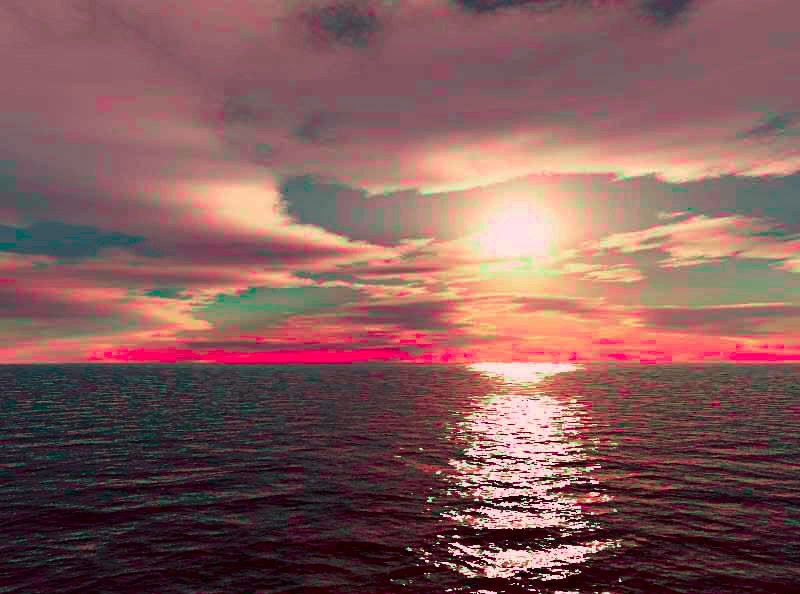
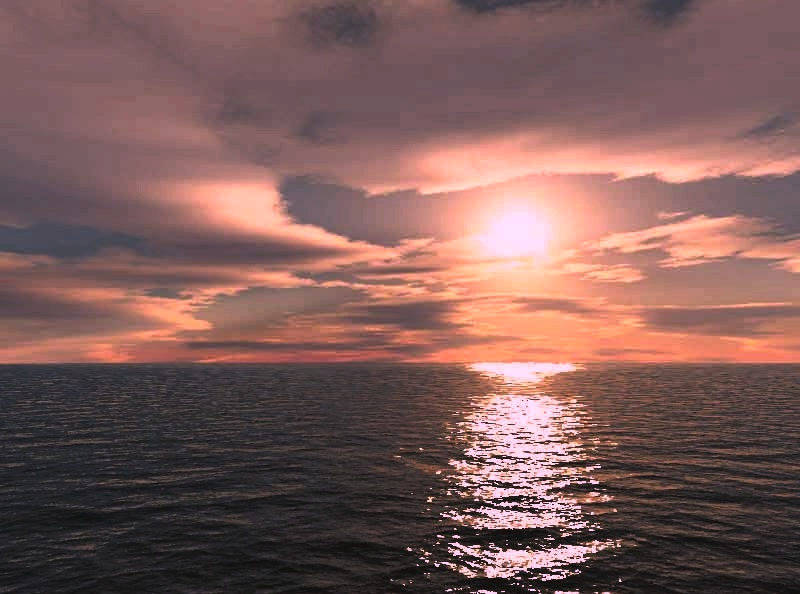
algorithm fixed

diff --git a/main.cpp b/main.cpp
@@ -7,6 +7,7 @@
 using namespace cv;
 
 #define WND_NAME_RES "Result Picture"
+#define WND_NAME_SOURCE "Source Picture"
 
 Mat RGB_to_LMS = (Mat_<float>(3,3) <<	0.3811, 0.5783, 0.0402,
 										0.1967, 0.7244, 0.0782,
@@ -14,12 +15,14 @@ Mat RGB_to_LMS = (Mat_<float>(3,3) <<	0.3811, 0.5783, 0.0402,
 Mat LMS_to_RGB = (Mat_<float>(3,3) <<	4.4679, -3.5873, 0.1193,
 										-1.2186, 2.3809, -0.1624,
 										0.0497, -0.2439, 1.2045);
+
 Mat LMS_to_lab_1 = (Mat_<float>(3,3) << 1/sqrt(3), 0, 0,
 										0, 1/sqrt(6), 0,
 										0, 0, 1/sqrt(2));
 Mat LMS_to_lab_2 = (Mat_<float>(3,3) << 1, 1, 1,
 											1, 1, -2,
 											1, -1, 0);
+
 float _x = 1/sqrt(3), _y = 1/sqrt(6), _z = 1/sqrt(2);
 
 Mat LMS_to_lab = (Mat_<float>(3,3) <<	_x, _x, _x,
@@ -30,6 +33,8 @@ Mat lab_to_LMS = (Mat_<float>(3,3) <<	_x, _y, _z,
 										_x, _y, -_z,
 										_x, -2*_y, 0);
 
+
+
 struct ct_image
 {
 	std::string source;
@@ -37,26 +42,78 @@ struct ct_image
 	std::string result;
 };
 
+ct_image images[3] = {
+	{"images/1/img_1.jpg", "images/1/img_2.jpg", "images/1/img_1_2_cv.jpg"},
+	{"images/2/img_3.jpg", "images/2/img_4.jpg", "images/2/img_3_4_cv.jpg"}, // result image becomes black
+	{"images/3/pic_1.jpg", "images/3/pic_2.jpg", "images/3/pic_1_2_cv.jpg"}};
+
 bool makeCT(ct_image images);
+bool makeCTCIE(ct_image images);
 
 Mat convertTolab(Mat input);
 Mat convertFromlab(Mat input);
 Mat _transform(Mat mat, Mat core);
 
+//#define SINGLE_MATRIX
+
 int main()
 {
 	transpose(RGB_to_LMS, RGB_to_LMS);
 	transpose(LMS_to_RGB, LMS_to_RGB);
-	ct_image images_2 = {"images/3/pic_1.jpg", "images/3/pic_2.jpg", "images/3/pic_1_2_cv.jpg"};
-	if(makeCT(images_2))
+	transpose(LMS_to_lab, LMS_to_lab);
+	transpose(lab_to_LMS, lab_to_LMS);
+	transpose(LMS_to_lab_2, LMS_to_lab_2);
+
+	unsigned img_pack = 1;
+
+	/*Mat temp = imread(images[img_pack].source);
+	imshow(WND_NAME_RES, convertFromlab(convertTolab(temp)));
+	imshow(WND_NAME_SOURCE, temp);
+	waitKey(0);*/
+	if(makeCT(images[img_pack]))
 	{
-		Mat res_pic = imread(images_2.result);
+		Mat res_pic = imread(images[img_pack].result);
 		imshow(WND_NAME_RES, res_pic);
 		waitKey(0);
 	}
 	return 0;
 }
 bool makeCT(ct_image images)
+{
+	Mat imgs = imread(images.source);
+	Mat imgt = imread(images.target);
+	Mat imgs_lab;
+	Mat imgt_lab;
+	imgs_lab = convertTolab(imgs);
+	imgt_lab = convertTolab(imgt);
+
+	Mat meant, means, stddt, stdds;
+	meanStdDev(imgs_lab, means, stdds);
+	meanStdDev(imgt_lab, meant, stddt);
+
+	std::vector<Mat> imgs_lab_channels, imgt_lab_channels;
+	split(imgs_lab, imgs_lab_channels);
+	split(imgt_lab, imgt_lab_channels);
+
+	for(int i = 0; i < 3; i++)
+	{
+		imgs_lab_channels[i] = (imgs_lab_channels[i] - means.at<double>(i)) *
+		stddt.at<double>(i)/stdds.at<double>(i) + meant.at<double>(i);
+		printf("(%d) Mean/stdd:\nsource\t%f/%f\ntarget\t%f/%f\n",
+				i, means.at<double>(i), stdds.at<double>(i), // images[2] - they become -inf
+				meant.at<double>(i), stddt.at<double>(i));
+		/*imgs_lab_channels[i] -= means.at<double>(i);
+		imgs_lab_channels[i] *= stddt.at<double>(i)/stdds.at<double>(i);
+		imgs_lab_channels[i] += meant.at<double>(i); */ // wrong because OpenCV limit values at every operation (?)
+	}
+
+	Mat result;
+	merge(imgs_lab_channels, result);
+	result = convertFromlab(result);
+	imwrite(images.result, result);
+	return true;
+}
+bool makeCTCIE(ct_image images)
 {
 	Mat imgs = imread(images.source);
 	Mat imgt = imread(images.target);
@@ -79,15 +136,10 @@ bool makeCT(ct_image images)
 	{
 		imgs_lab_channels[i] = (imgs_lab_channels[i] - means.at<double>(i)) *
 		stddt.at<double>(i)/stdds.at<double>(i) + meant.at<double>(i);
-
-		/*imgs_lab_channels[i] -= means.at<double>(i);
-		imgs_lab_channels[i] *= stddt.at<double>(i)/stdds.at<double>(i);
-		imgs_lab_channels[i] += meant.at<double>(i); */
 	}
 
 	Mat result;
 	merge(imgs_lab_channels, result);
-
 	result.convertTo(result, CV_8UC1);
 	cvtColor(result, result, CV_Lab2BGR);
 	imwrite(images.result, result);
@@ -95,10 +147,10 @@ bool makeCT(ct_image images)
 }
 Mat convertTolab(Mat input)
 {
-	Mat img;
-	input.convertTo(img,CV_32FC1);
+	Mat img_BGR;
+	input.convertTo(img_BGR, CV_32FC1);
 	Mat img_lms;
-	img_lms = _transform(img, RGB_to_LMS);
+	transform(img_BGR, img_lms, RGB_to_LMS);
 	MatIterator_<Vec3f> iter = img_lms.begin<Vec3f>();
 	for(; iter != img_lms.end<Vec3f>(); iter++)
 	{
@@ -107,24 +159,36 @@ Mat convertTolab(Mat input)
 		(*iter)[2] = log10((*iter)[2]);
 	}
 	Mat img_lab;
-	img_lab = _transform(img_lms, LMS_to_lab);
+#ifdef SINGLE_MATRIX
+	transform(img_lms, img_lab, LMS_to_lab);
+#else
+	transform(img_lms, img_lab, LMS_to_lab_1);
+	transform(img_lab, img_lab, LMS_to_lab_2);
+#endif
 	return img_lab;
 }
 Mat convertFromlab(Mat input)
 {
 	Mat img_lms;
-	img_lms = _transform(input, lab_to_LMS);
+#ifdef SINGLE_MATRIX
+	transform(input, img_lms, lab_to_LMS);
+#else
+	transpose(LMS_to_lab_2, LMS_to_lab_2);
+	transform(input, img_lms, LMS_to_lab_2);
+	transform(img_lms, img_lms, LMS_to_lab_1);
+#endif
+	
 	MatIterator_<Vec3f> iter = img_lms.begin<Vec3f>();
 	for(; iter != img_lms.end<Vec3f>(); iter++)
 	{
-		(*iter)[0] = pow((*iter)[0], 10);
-		(*iter)[1] = pow((*iter)[1], 10);
-		(*iter)[2] = pow((*iter)[2], 10);
+		(*iter)[0] = pow(10, (*iter)[0]);
+		(*iter)[1] = pow(10, (*iter)[1]);
+		(*iter)[2] = pow(10, (*iter)[2]);
 	}
-	Mat img_RGB;
-	img_RGB = _transform(img_lms, LMS_to_RGB);
-	img_RGB.convertTo(img_RGB,CV_8UC1);
-	return img_RGB;
+	Mat img_BGR;
+	transform(img_lms, img_BGR, LMS_to_RGB);
+	img_BGR.convertTo(img_BGR, CV_8UC1);
+	return img_BGR;
 }
 Mat _transform(Mat mat, Mat core)
 {

diff --git a/README.md b/README.md
@@ -9,4 +9,4 @@ There are sorted images: images with one number index are sources, with two numb
 
 Letter indices: cv - made by this code, ps - photoshop, ml - matlab (https://github.com/hangong/reinhard_color_transfer), without - taken from article.
 
-As you can see same algorithms can give different results.
+This code gives image with more yellow. Some images becomes black.
